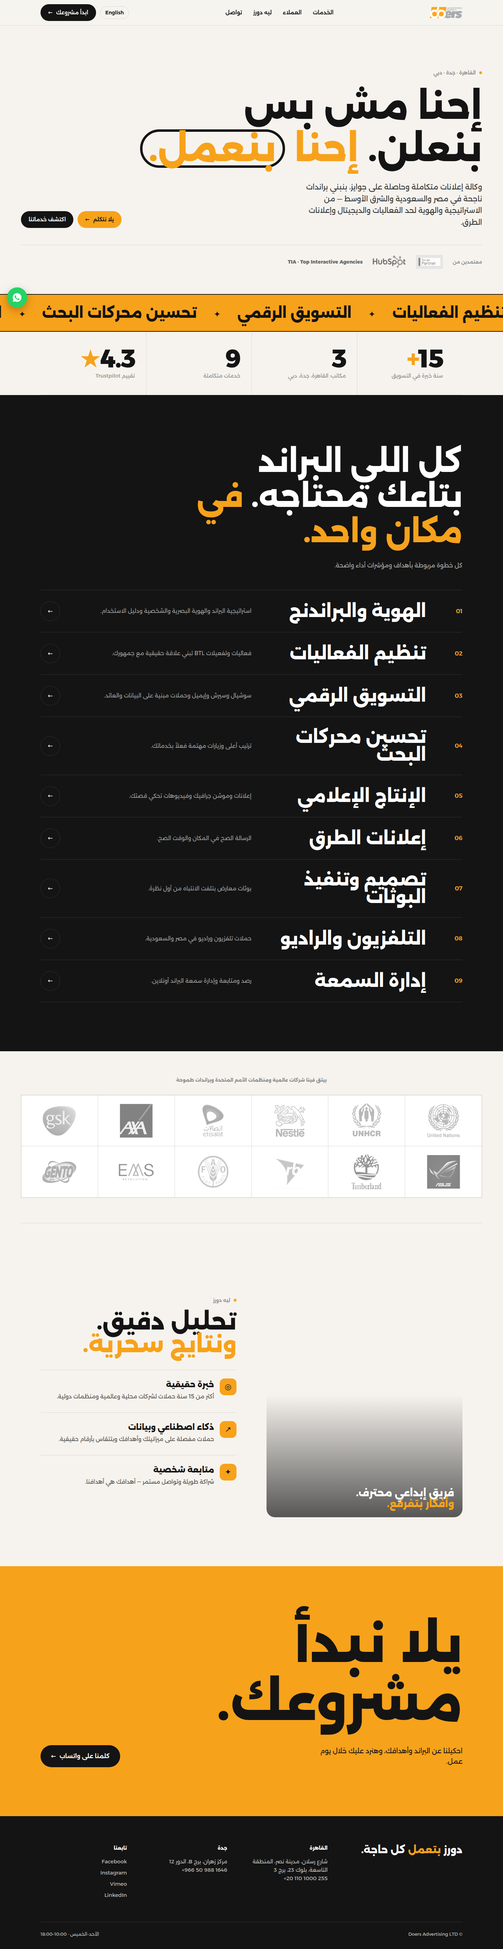
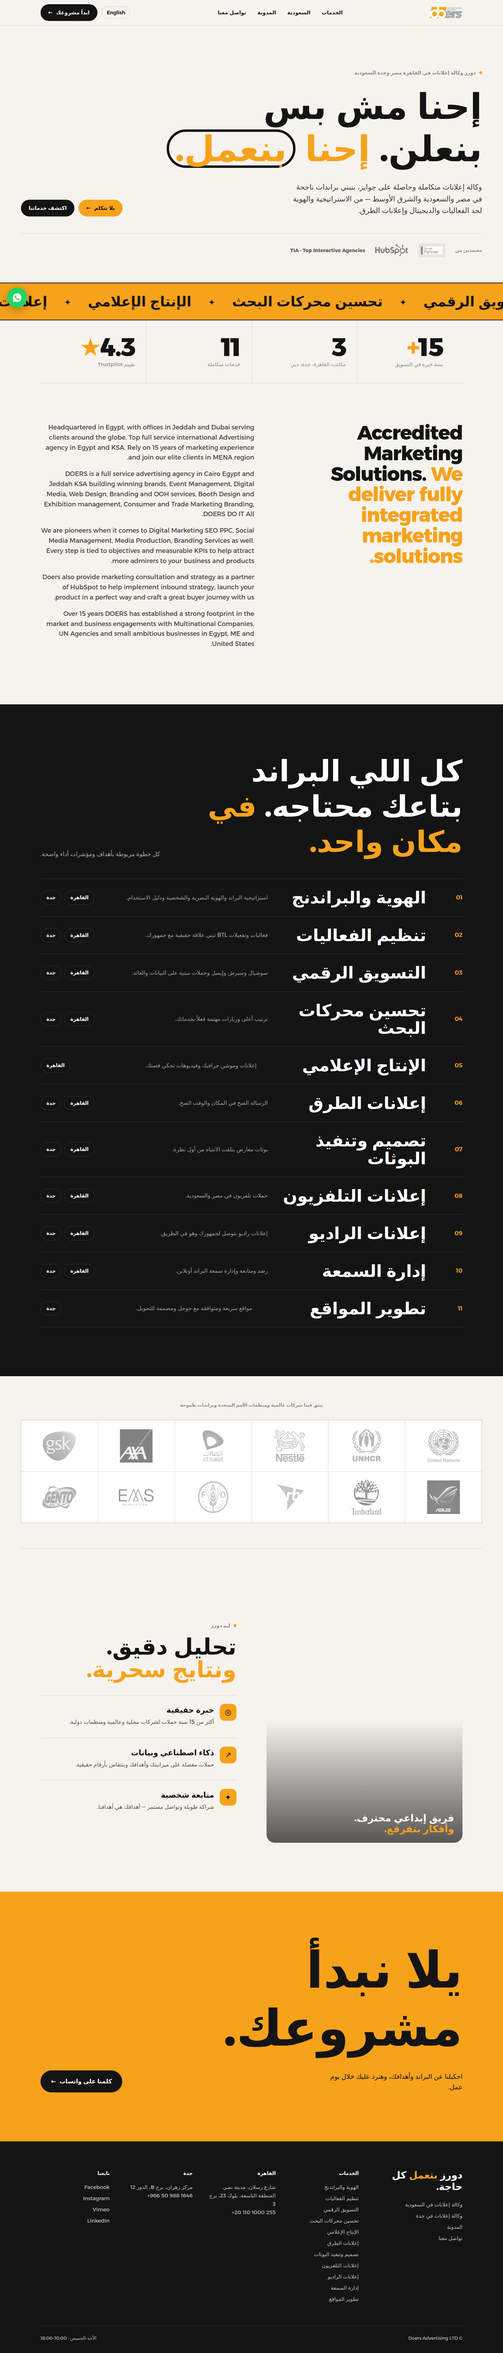
Carry live SEO into homepage concept
Copy title, meta description, robots, canonical, hreflang, Open Graph
and Yoast schema 1:1 from the live homepage; keep the keyword H1 and
original intro copy; link every service to its real Cairo/Jeddah URL
(final destinations, no redirects) via a services mega menu, service
rows and footer.

Claude-Session: https://claude.ai/code/session_019Ux5G4skCHpsAGw9RueN5Y

diff --git a/concept/index.html b/concept/index.html
@@ -4,7 +4,29 @@
 <meta charset="utf-8">
 <meta name="viewport" content="width=device-width, initial-scale=1">
 <title>Doers Advertising Agency in Egypt Cairo - Award winning Agency</title>
-<meta name="description" content="Full-service advertising agency in Cairo and Jeddah: branding, events, digital, SEO, media production and OOH. Google & HubSpot partner, 15+ years.">
+<!-- SEO: copied 1:1 from the live Yoast output of https://doersadv.com/ -->
+<meta name="description" content="Best advertising agency in Egypt, Cairo, Multi awards winning agency, Branding, Events, Digital, Web-design, Creative campaigns, OOH.">
+<meta name="robots" content="index, follow, max-image-preview:large, max-snippet:-1, max-video-preview:-1">
+<link rel="canonical" href="https://doersadv.com/">
+<link rel="alternate" hreflang="en-US" href="https://doersadv.com/">
+<link rel="alternate" hreflang="ar" href="https://doersadv.com/ar/">
+<link rel="alternate" hreflang="en" href="https://doersadv.com/">
+<meta property="og:locale" content="en_US">
+<meta property="og:type" content="website">
+<meta property="og:title" content="Doers Advertising Agency in Egypt Cairo - Award winning Agency">
+<meta property="og:description" content="Best advertising agency in Egypt, Cairo, Multi awards winning agency, Branding, Events, Digital, Web-design, Creative campaigns, OOH.">
+<meta property="og:url" content="https://doersadv.com/">
+<meta property="og:site_name" content="Doers Advertising Agency">
+<meta property="og:image" content="https://doersadv.com/wp-content/uploads/2019/02/Office-high.jpg">
+<meta property="og:image:width" content="2000">
+<meta property="og:image:height" content="1125">
+<meta property="og:image:type" content="image/jpeg">
+<meta name="twitter:card" content="summary_large_image">
+<link rel="alternate" type="application/rss+xml" title="Doers Advertising Agency &raquo; Feed" href="https://doersadv.com/feed/">
+<link rel="icon" href="https://doersadv.com/wp-content/uploads/2023/09/favicon-32.jpg" sizes="32x32">
+<link rel="apple-touch-icon" href="https://doersadv.com/wp-content/uploads/2023/09/favicon-32.jpg">
+<script type="application/ld+json">{"@context":"https://schema.org","@graph":[{"@type":"WebPage","@id":"https://doersadv.com/","url":"https://doersadv.com/","name":"Doers Advertising Agency in Egypt Cairo - Award winning Agency","isPartOf":{"@id":"https://doersadv.com/#website"},"about":{"@id":"https://doersadv.com/#organization"},"primaryImageOfPage":{"@id":"https://doersadv.com/#primaryimage"},"image":{"@id":"https://doersadv.com/#primaryimage"},"thumbnailUrl":"https://doersadv.com/wp-content/uploads/2019/02/Office-high.jpg","datePublished":"2019-02-23T01:03:47+00:00","description":"Best advertising agency in Egypt, Cairo, Multi awards winning agency, Branding, Events, Digital, Web-design, Creative campaigns, OOH.","breadcrumb":{"@id":"https://doersadv.com/#breadcrumb"},"inLanguage":"en-US"},{"@type":"ImageObject","inLanguage":"en-US","@id":"https://doersadv.com/#primaryimage","url":"https://doersadv.com/wp-content/uploads/2019/02/Office-high.jpg","contentUrl":"https://doersadv.com/wp-content/uploads/2019/02/Office-high.jpg","width":2000,"height":1125},{"@type":"BreadcrumbList","@id":"https://doersadv.com/#breadcrumb","itemListElement":[{"@type":"ListItem","position":1,"name":"Home"}]},{"@type":"WebSite","@id":"https://doersadv.com/#website","url":"https://doersadv.com/","name":"Doers Advertising Agency","description":"Advertising Agency in Egypt 360 || Digital || Events || Media.","publisher":{"@id":"https://doersadv.com/#organization"},"inLanguage":"en-US"},{"@type":"Organization","@id":"https://doersadv.com/#organization","name":"Doers Advertising Agency","url":"https://doersadv.com/","logo":{"@type":"ImageObject","inLanguage":"en-US","@id":"https://doersadv.com/#/schema/logo/image/","url":"https://doersadv.com/wp-content/uploads/2019/02/logo.png","contentUrl":"https://doersadv.com/wp-content/uploads/2019/02/logo.png","width":400,"height":400,"caption":"Doers Advertising Agency"},"image":{"@id":"https://doersadv.com/#/schema/logo/image/"},"sameAs":["http://facebook.com/DoersAdv","https://www.instagram.com/doersadvertising/","https://www.linkedin.com/in/doers-advertising-agency/"]}]}</script>
+<!-- Google Tag Manager (GTM-TH643JH) is added at launch only, so previews don't pollute analytics. -->
 <link rel="preconnect" href="https://fonts.googleapis.com">
 <link rel="preconnect" href="https://fonts.gstatic.com" crossorigin>
 <link href="https://fonts.googleapis.com/css2?family=Bricolage+Grotesque:opsz,wght@12..96,400;12..96,600;12..96,800&family=Alexandria:wght@400;600;800&display=swap" rel="stylesheet">
@@ -47,12 +69,12 @@ a{color:inherit;text-decoration:none}
 .eyebrow{display:inline-flex;align-items:center;gap:10px;font-size:14px;font-weight:600;letter-spacing:.04em;text-transform:uppercase;color:var(--gray)}
 .dot{width:8px;height:8px;border-radius:50%;background:var(--orange);box-shadow:0 0 0 0 rgba(247,162,27,.6);animation:pulse 2s infinite}
 @keyframes pulse{70%{box-shadow:0 0 0 10px rgba(247,162,27,0)}100%{box-shadow:0 0 0 0 rgba(247,162,27,0)}}
-.hero h1{font-family:var(--display);font-weight:800;font-size:clamp(48px,9vw,136px);line-height:.92;letter-spacing:-.045em;margin:24px 0 32px}
-[dir=rtl] .hero h1{letter-spacing:0;line-height:1.2;font-size:clamp(42px,7vw,108px)}
-.hero h1 em{font-style:normal;color:var(--orange)}
-.hero h1 .ring{display:inline-block;border:.07em solid var(--ink);border-radius:999px;padding:0 .18em;line-height:.95}
+.hero .slogan{font-family:var(--display);font-weight:800;font-size:clamp(48px,9vw,136px);line-height:.92;letter-spacing:-.045em;margin:24px 0 32px}
+[dir=rtl] .hero .slogan{letter-spacing:0;line-height:1.2;font-size:clamp(42px,7vw,108px)}
+.hero .slogan em{font-style:normal;color:var(--orange)}
+.hero .slogan .ring{display:inline-block;border:.07em solid var(--ink);border-radius:999px;padding:0 .18em;line-height:.95}
 .hero-row{display:grid;grid-template-columns:1.2fr 1fr;gap:48px;align-items:end}
-.hero p{font-size:clamp(18px,1.6vw,21px);max-width:560px;color:#3a3a3a}
+.hero-row p{font-size:clamp(18px,1.6vw,21px);max-width:560px;color:#3a3a3a}
 .hero-cta{display:flex;gap:12px;flex-wrap:wrap;justify-content:flex-end}
 .badges{display:flex;gap:28px;align-items:center;margin-top:48px;padding-top:28px;border-top:1px solid var(--line);flex-wrap:wrap}
 .badges span{font-size:13px;color:var(--gray);font-weight:600;text-transform:uppercase;letter-spacing:.06em}
@@ -87,15 +109,10 @@ section{padding:clamp(72px,10vw,140px) 0}
 .dark{background:var(--ink);color:#fff}
 .dark .head p{color:#aaa}
 .svc{border-top:1px solid var(--line-dark)}
-.svc a{display:grid;grid-template-columns:80px 1fr 1.1fr 56px;gap:24px;align-items:center;padding:32px 0;border-bottom:1px solid var(--line-dark);transition:padding .3s}
-.svc a:hover{padding-inline-start:16px}
 .svc .n{font-family:var(--display);color:var(--orange);font-weight:600}
 .svc h3{font-family:var(--display);font-size:clamp(28px,3.4vw,48px);font-weight:800;letter-spacing:-.03em;line-height:1.05}
 [dir=rtl] .svc h3{letter-spacing:0}
 .svc p{color:#9b9b9b;font-size:16px}
-.svc .go{width:56px;height:56px;border-radius:50%;border:1px solid var(--line-dark);display:grid;place-items:center;transition:all .25s}
-.svc a:hover .go{background:var(--orange);border-color:var(--orange);color:var(--ink)}
-.svc a:hover h3{color:var(--orange)}
 
 /* clients */
 .clients{padding:72px 0;border-bottom:1px solid var(--line)}
@@ -129,7 +146,7 @@ section{padding:clamp(72px,10vw,140px) 0}
 
 /* footer */
 footer{background:var(--ink);color:#bbb;padding:80px 0 32px;font-size:15px}
-.fgrid{display:grid;grid-template-columns:1.4fr 1fr 1fr 1fr;gap:40px}
+.fgrid{display:grid;grid-template-columns:1.3fr 1fr 1fr 1fr 1fr;gap:40px}
 footer h5{color:#fff;font-size:14px;letter-spacing:.08em;text-transform:uppercase;margin-bottom:16px}
 footer .big{font-family:var(--display);color:#fff;font-size:28px;font-weight:800;line-height:1.15}
 footer .big em{font-style:normal;color:var(--orange)}
@@ -139,6 +156,38 @@ footer ul{list-style:none;display:grid;gap:8px}
 
 .wa{position:fixed;bottom:20px;inset-inline-end:20px;z-index:60;width:58px;height:58px;border-radius:50%;background:#25D366;display:grid;place-items:center;box-shadow:0 8px 24px rgba(0,0,0,.25);transition:transform .2s}
 .wa:hover{transform:scale(1.08)}
+
+/* mega menu */
+.dd{position:relative}
+.mega{position:absolute;top:calc(100% + 18px);inset-inline-start:-24px;display:none;grid-template-columns:1fr 1fr;gap:32px;background:#fff;border:1px solid var(--line);border-radius:18px;padding:24px 28px;box-shadow:0 24px 60px rgba(0,0,0,.12);min-width:520px}
+.dd::before{content:"";position:absolute;inset-inline:0;top:100%;height:20px}
+.dd:hover .mega,.dd:focus-within .mega{display:grid}
+.mega h6{font-size:12px;letter-spacing:.1em;text-transform:uppercase;color:var(--gray);margin-bottom:10px}
+.mega a{display:block;padding:6px 0;font-weight:500}
+.mega a::after{display:none}
+.mega a:hover{color:var(--orange-deep)}
+.lang{display:inline-block}
+.hero h1.eyebrow{margin:0}
+/* intro (original SEO copy) */
+.intro{padding-top:clamp(64px,8vw,112px)}
+.intro-grid{display:grid;grid-template-columns:1fr 1.2fr;gap:clamp(32px,6vw,96px)}
+.intro h2{font-family:var(--display);font-weight:800;font-size:clamp(32px,4vw,56px);line-height:1.05;letter-spacing:-.03em;position:sticky;top:110px;align-self:start}
+.intro h2 em{font-style:normal;color:var(--orange)}
+.intro-copy p{color:#444;margin-bottom:18px;font-size:18px}
+/* service rows */
+.svc .row{display:grid;grid-template-columns:80px 1fr 1.1fr auto;gap:24px;align-items:center;padding:28px 0;border-bottom:1px solid var(--line-dark);transition:padding .3s}
+.svc .row:hover{padding-inline-start:16px}
+.svc .row:hover h3{color:var(--orange)}
+.cities{display:flex;gap:8px}
+.cities a{border:1px solid var(--line-dark);border-radius:99px;padding:8px 16px;font-size:14px;font-weight:600;transition:all .2s}
+.cities a:hover{background:var(--orange);border-color:var(--orange);color:var(--ink)}
+@media (max-width:900px){
+  .intro-grid{grid-template-columns:1fr}
+  .intro h2{position:static}
+  .svc .row{grid-template-columns:36px 1fr;gap:10px 14px;padding:22px 0}
+  .svc .row .cities{grid-column:2}
+  .fgrid{grid-template-columns:1fr 1fr}
+}
 
 /* reveal */
 .rv{opacity:0;transform:translateY(24px);transition:opacity .8s,transform .8s}
@@ -153,9 +202,7 @@ footer ul{list-style:none;display:grid;gap:8px}
   .stat:nth-child(2){border-inline-end:0}
   .stat:nth-child(-n+2){border-bottom:1px solid var(--line)}
   .stat:nth-child(3){padding-inline-start:0}
-  .svc a{grid-template-columns:40px 1fr 44px;gap:14px;padding:24px 0}
   .svc p{display:none}
-  .svc .go{width:44px;height:44px}
   .logos{grid-template-columns:repeat(3,minmax(0,1fr))}
   .fgrid{grid-template-columns:1fr 1fr}
   .nav .btn{display:none}
@@ -169,26 +216,31 @@ footer ul{list-style:none;display:grid;gap:8px}
   <div class="wrap">
     <a href="#"><img src="img/logo.png" alt="Doers Advertising Agency"></a>
     <ul>
-      <li><a href="#services" data-t="nav1">Services</a></li>
-      <li><a href="#clients" data-t="nav2">Clients</a></li>
-      <li><a href="#why" data-t="nav3">Why Doers</a></li>
-      <li><a href="#contact" data-t="nav4">Contact</a></li>
+      <li class="dd"><a href="https://doersadv.com/ksa/" data-t="nav1">Services</a>
+        <div class="mega">
+          <div><h6 data-t="mcai">Cairo</h6><div id="menu-eg"></div></div>
+          <div><h6 data-t="mjed">Jeddah</h6><div id="menu-ksa"></div></div>
+        </div>
+      </li>
+      <li><a href="https://doersadv.com/ksa/" data-t="nav2">KSA</a></li>
+      <li><a href="https://doersadv.com/blog/" data-t="nav3">Blog</a></li>
+      <li><a href="https://doersadv.com/contact-us/" data-t="nav4">Contact Us</a></li>
     </ul>
     <div class="nav-r">
-      <button class="lang" id="lang" aria-label="Switch language">عربي</button>
-      <a class="btn" href="#contact"><span data-t="navcta">Start a project</span> <span class="arrow">→</span></a>
+      <a class="lang" id="lang" href="https://doersadv.com/ar/" hreflang="ar" lang="ar">عربي</a>
+      <a class="btn" href="https://doersadv.com/contact-us/"><span data-t="navcta">Start a project</span> <span class="arrow">→</span></a>
     </div>
   </div>
 </header>
 
 <main>
 <div class="wrap hero">
-  <div class="eyebrow rv"><span class="dot"></span><span data-t="eyebrow">Cairo · Jeddah · Dubai — since 2010</span></div>
-  <h1 class="rv" data-t="h1" data-html>We don't just<br>advertise. <em>We&nbsp;<span class="ring">do.</span></em></h1>
+  <h1 class="eyebrow rv"><span class="dot"></span><span data-t="eyebrow">Doers Advertising Agency in Cairo Egypt, Jeddah KSA</span></h1>
+  <p class="slogan rv" data-t="h1" data-html>We don't just<br>advertise. <em>We&nbsp;<span class="ring">do.</span></em></p>
   <div class="hero-row">
     <p class="rv" data-t="lead">A full-service, award-winning advertising agency building winning brands across Egypt, Saudi Arabia and the MENA region — from strategy and branding to events, digital and outdoor.</p>
     <div class="hero-cta rv">
-      <a class="btn o" href="#contact"><span data-t="cta1">Let's talk</span> <span class="arrow">→</span></a>
+      <a class="btn o" href="https://doersadv.com/contact-us/"><span data-t="cta1">Let's talk</span> <span class="arrow">→</span></a>
       <a class="btn" href="#services" data-t="cta2">Explore services</a>
     </div>
   </div>
@@ -208,10 +260,24 @@ footer ul{list-style:none;display:grid;gap:8px}
   <div class="stats">
     <div class="stat rv"><b>15<i>+</i></b><span data-t="s1">Years of marketing experience</span></div>
     <div class="stat rv"><b>3</b><span data-t="s2">Offices: Cairo, Jeddah, Dubai</span></div>
-    <div class="stat rv"><b>9</b><span data-t="s3">Integrated service lines</span></div>
+    <div class="stat rv"><b>11</b><span data-t="s3">Integrated service lines</span></div>
     <div class="stat rv"><b>4.3<i>★</i></b><span data-t="s4">Trustpilot rating</span></div>
   </div>
 </div>
+
+
+<section class="intro" id="about">
+  <div class="wrap intro-grid">
+    <h2 class="rv">Accredited Marketing Solutions. <em>We deliver fully integrated marketing solutions.</em></h2>
+    <div class="intro-copy rv">
+      <p>Headquartered in Egypt, with offices in Jeddah and Dubai serving clients around the globe. Top full service international Advertising agency in Egypt and KSA. Rely on 15 years of marketing experience and join our elite clients in MENA region.</p>
+      <p>DOERS is a full service advertising agency in Cairo Egypt and Jeddah KSA building winning brands, Event Management, Digital Media, Web Design, Branding and OOH services, Booth Design and Exhibition management, Consumer and Trade Marketing Branding, DOERS DO IT All.</p>
+      <p>We are pioneers when it comes to Digital Marketing SEO PPC, Social Media Management, Media Production, Branding Services as well. Every step is tied to objectives and measurable KPIs to help attract more admirers to your business and products.</p>
+      <p>Doers also provide marketing consultation and strategy as a partner of HubSpot to help implement inbound strategy, launch your product in a perfect way and craft a great buyer journey with us.</p>
+      <p>Over 15 years DOERS has established a strong footprint in the market and business engagements with Multinational Companies, UN Agencies and small ambitious businesses in Egypt, ME and United States.</p>
+    </div>
+  </div>
+</section>
 
 <section class="dark" id="services">
   <div class="wrap">
@@ -273,7 +339,8 @@ footer ul{list-style:none;display:grid;gap:8px}
 <footer>
   <div class="wrap">
     <div class="fgrid">
-      <div><p class="big" data-t="fbig" data-html>Doers <em>do</em> it all.</p></div>
+      <div><p class="big" data-t="fbig" data-html>Doers <em>do</em> it all.</p><ul style="margin-top:24px"><li><a href="https://doersadv.com/ksa/" data-t="fk">Advertising Agency KSA</a></li><li><a href="https://doersadv.com/ksa/advertising-agency-in-jeddah/" data-t="fj">Advertising Agency in Jeddah</a></li><li><a href="https://doersadv.com/blog/" data-t="fbl">Blog</a></li><li><a href="https://doersadv.com/contact-us/" data-t="fc">Contact Us</a></li></ul></div>
+      <div><h5 data-t="fs">Services</h5><ul id="fsvc"></ul></div>
       <div><h5 data-t="f1">Cairo</h5><p data-t="f1a">Raslan St, Nasr City, 9th Area, Block 23, Tower 3</p><p><a href="tel:+201101000255" dir="ltr">+20 110 1000 255</a></p></div>
       <div><h5 data-t="f2">Jeddah</h5><p data-t="f2a">Zahran Building Center, Tower B, 12th Floor</p><p><a href="tel:+966509881646" dir="ltr">+966 50 988 1646</a></p></div>
       <div><h5 data-t="f3">Follow</h5><ul><li><a href="https://www.facebook.com/DoersAdv/">Facebook</a></li><li><a href="#">Instagram</a></li><li><a href="https://vimeo.com/doersadvertising">Vimeo</a></li><li><a href="https://www.linkedin.com/company/doers-advertising">LinkedIn</a></li></ul></div>
@@ -288,19 +355,22 @@ footer ul{list-style:none;display:grid;gap:8px}
 
 <script>
 const SVC=[
- {n:"Branding",a:"الهوية والبراندنج",d:"Brand strategy, identity, persona and guidelines — built with your customers in the room.",da:"استراتيجية البراند والهوية البصرية والشخصية ودليل الاستخدام."},
- {n:"Event Management",a:"تنظيم الفعاليات",d:"Events and BTL activations that engage customers and generate leads.",da:"فعاليات وتفعيلات BTL تبني علاقة حقيقية مع جمهورك."},
- {n:"Digital Marketing",a:"التسويق الرقمي",d:"Social, search, email and mobile campaigns driven by data and ROI.",da:"سوشيال وسيرش وإيميل وحملات مبنية على البيانات والعائد."},
- {n:"SEO",a:"تحسين محركات البحث",d:"Rank higher, attract relevant traffic and convert it.",da:"ترتيب أعلى وزيارات مهتمة فعلاً بخدماتك."},
- {n:"Media Production",a:"الإنتاج الإعلامي",d:"Ads, motion graphics and animated videos that tell your story.",da:"إعلانات وموشن جرافيك وفيديوهات تحكي قصتك."},
- {n:"Outdoor (OOH)",a:"إعلانات الطرق",d:"The right message, place and time for maximum reach.",da:"الرسالة الصح في المكان والوقت الصح."},
- {n:"Booth Production",a:"تصميم وتنفيذ البوثات",d:"Exhibition booths designed and built to stand out.",da:"بوثات معارض بتلفت الانتباه من أول نظرة."},
- {n:"TV & Radio",a:"التلفزيون والراديو",d:"Broadcast campaigns across Egypt and KSA.",da:"حملات تلفزيون وراديو في مصر والسعودية."},
- {n:"Reputation Management",a:"إدارة السمعة",d:"Social listening and reputation management that protects your brand.",da:"رصد ومتابعة وإدارة سمعة البراند أونلاين."}
+ {n:"Branding",a:"الهوية والبراندنج",eg:"/branding-agency-egypt/",ksa:"/ksa/branding-agency-in-jeddah/",d:"Brand strategy, identity, persona and guidelines — built with your customers in the room.",da:"استراتيجية البراند والهوية البصرية والشخصية ودليل الاستخدام."},
+ {n:"Event Management",a:"تنظيم الفعاليات",eg:"/event-management-cairo-egypt/",ksa:"/ksa/event-management-agency-in-jeddah/",d:"Events and BTL activations that engage customers and generate leads.",da:"فعاليات وتفعيلات BTL تبني علاقة حقيقية مع جمهورك."},
+ {n:"Digital Marketing",a:"التسويق الرقمي",eg:"/digital-marketing-egypt-cairo/",ksa:"/ksa/digital-marketing-agency-in-jeddah/",d:"Social, search, email and mobile campaigns driven by data and ROI.",da:"سوشيال وسيرش وإيميل وحملات مبنية على البيانات والعائد."},
+ {n:"SEO",a:"تحسين محركات البحث",eg:"/seo/",ksa:"/ksa/seo-agency-in-jeddah/",d:"Rank higher, attract relevant traffic and convert it.",da:"ترتيب أعلى وزيارات مهتمة فعلاً بخدماتك."},
+ {n:"Media Production",a:"الإنتاج الإعلامي",eg:"/media-production-egypt/",ksa:null,d:"Ads, motion graphics and animated videos that tell your story.",da:"إعلانات وموشن جرافيك وفيديوهات تحكي قصتك."},
+ {n:"Outdoor (OOH)",a:"إعلانات الطرق",eg:"/outdoor-advertising-egypt/",ksa:"/ksa/ooh-outdoor-agency-in-jeddah/",d:"The right message, place and time for maximum reach.",da:"الرسالة الصح في المكان والوقت الصح."},
+ {n:"Booth Production",a:"تصميم وتنفيذ البوثات",eg:"/booth-production-egypt/",ksa:"/ksa/booth-production-in-jeddah/",d:"Exhibition booths designed and built to stand out.",da:"بوثات معارض بتلفت الانتباه من أول نظرة."},
+ {n:"TV Advertising",a:"إعلانات التلفزيون",eg:"/tv-advertising/",ksa:"/ksa/tv-advertising-in-jeddah/",d:"Broadcast TV campaigns across Egypt and KSA.",da:"حملات تلفزيون في مصر والسعودية."},
+ {n:"Radio Advertising",a:"إعلانات الراديو",eg:"/radio-advertising-egypt/",ksa:"/ksa/radio-advertising-agencies-in-jeddah/",d:"Radio spots that reach audiences on the move.",da:"إعلانات راديو بتوصل لجمهورك وهو في الطريق."},
+ {n:"Listening & Reputation",a:"إدارة السمعة",eg:"/listening-and-reputation-management/",ksa:"/ksa/listening-and-reputation-management-in-jeddah/",d:"Social listening and reputation management that protects your brand.",da:"رصد ومتابعة وإدارة سمعة البراند أونلاين."},
+ {n:"Website Development",a:"تطوير المواقع",eg:null,ksa:"/ksa/website-development-company-in-jeddah/",d:"Fast, search-friendly websites built to convert.",da:"مواقع سريعة ومتوافقة مع جوجل ومصممة للتحويل."}
 ];
+const U=p=>"https://doersadv.com"+p;
 const AR={
- nav1:"الخدمات",nav2:"العملاء",nav3:"ليه دورز",nav4:"تواصل",navcta:"ابدأ مشروعك",
- eyebrow:"القاهرة · جدة · دبي",
+ nav1:"الخدمات",nav2:"السعودية",nav3:"المدونة",nav4:"تواصل معنا",mcai:"القاهرة",mjed:"جدة",fs:"الخدمات",fk:"وكالة إعلانات في السعودية",fb:"أفضل وكالة إعلانات",fj:"وكالة إعلانات في جدة",fr:"إعلانات التلفزيون في الرياض",frk:"إعلانات الراديو في السعودية",fbl:"المدونة",fc:"تواصل معنا",navcta:"ابدأ مشروعك",
+ eyebrow:"دورز وكالة إعلانات في القاهرة مصر وجدة السعودية",
  h1:"إحنا مش بس<br>بنعلن. <em>إحنا <span class=\"ring\">بنعمل.</span></em>",
  lead:"وكالة إعلانات متكاملة وحاصلة على جوايز، بنبني براندات ناجحة في مصر والسعودية والشرق الأوسط — من الاستراتيجية والهوية لحد الفعاليات والديجيتال وإعلانات الطرق.",
  cta1:"يلا نتكلم",cta2:"اكتشف خدماتنا",accr:"معتمدين من",
@@ -319,16 +389,19 @@ document.querySelectorAll("[data-t]").forEach(el=>EN[el.dataset.t]=el.innerHTML)
 let lang="en";
 function render(){
   const ar=lang==="ar";
-  document.getElementById("svc").innerHTML=SVC.map((s,i)=>`<a href="#contact"><span class="n">${String(i+1).padStart(2,"0")}</span><h3>${ar?s.a:s.n}</h3><p>${ar?s.da:s.d}</p><span class="go"><span class="arrow">→</span></span></a>`).join("");
+  document.getElementById("svc").innerHTML=SVC.map((s,i)=>`<div class="row"><span class="n">${String(i+1).padStart(2,"0")}</span><h3><a href="${U(s.eg||s.ksa)}">${ar?s.a:s.n}</a></h3><p>${ar?s.da:s.d}</p><span class="cities">${s.eg?`<a href="${U(s.eg)}">${ar?"القاهرة":"Cairo"}</a>`:""}${s.ksa?`<a href="${U(s.ksa)}">${ar?"جدة":"Jeddah"}</a>`:""}</span></div>`).join("");
+  document.getElementById("menu-eg").innerHTML=SVC.filter(s=>s.eg).map(s=>`<a href="${U(s.eg)}">${ar?s.a:s.n}</a>`).join("");
+  document.getElementById("menu-ksa").innerHTML=SVC.filter(s=>s.ksa).map(s=>`<a href="${U(s.ksa)}">${ar?s.a:s.n}</a>`).join("");
+  document.getElementById("fsvc").innerHTML=SVC.map(s=>`<li><a href="${U(s.eg||s.ksa)}">${ar?s.a:s.n}</a></li>`).join("");
   const items=SVC.map(s=>`<span>${ar?s.a:s.n}</span>`).join("");
   document.getElementById("track").innerHTML=items+items;
 }
-document.getElementById("lang").onclick=()=>{
+document.getElementById("lang").onclick=(e)=>{ if(location.protocol==="https:"&&location.hostname==="doersadv.com")return; e.preventDefault();
   lang=lang==="en"?"ar":"en";
   const ar=lang==="ar";
   document.documentElement.lang=lang;document.documentElement.dir=ar?"rtl":"ltr";
   document.querySelectorAll("[data-t]").forEach(el=>{el.innerHTML=(ar?AR:EN)[el.dataset.t]??EN[el.dataset.t]});
-  document.getElementById("lang").textContent=ar?"English":"عربي";
+  const L=document.getElementById("lang");L.textContent=ar?"English":"عربي";L.href=ar?"https://doersadv.com/":"https://doersadv.com/ar/";
   render();
 };
 render();
